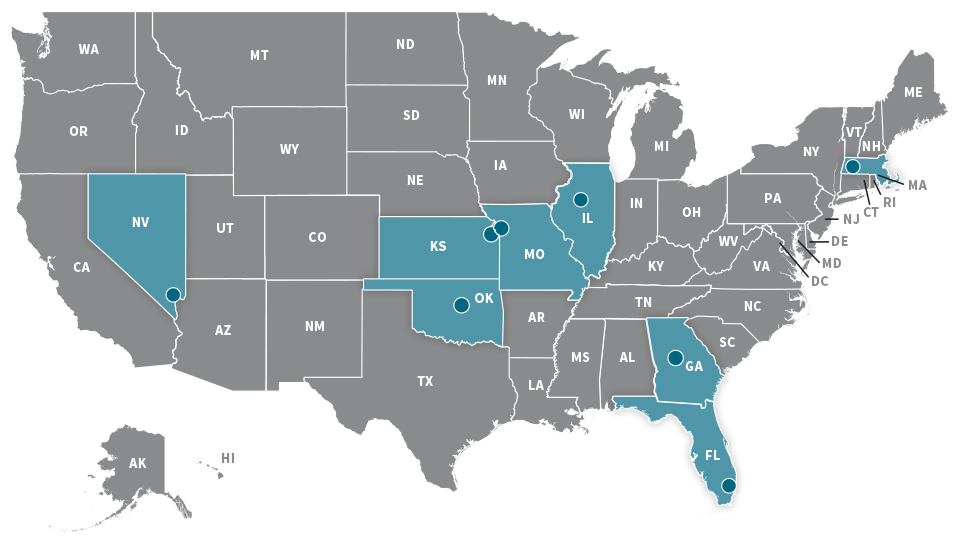
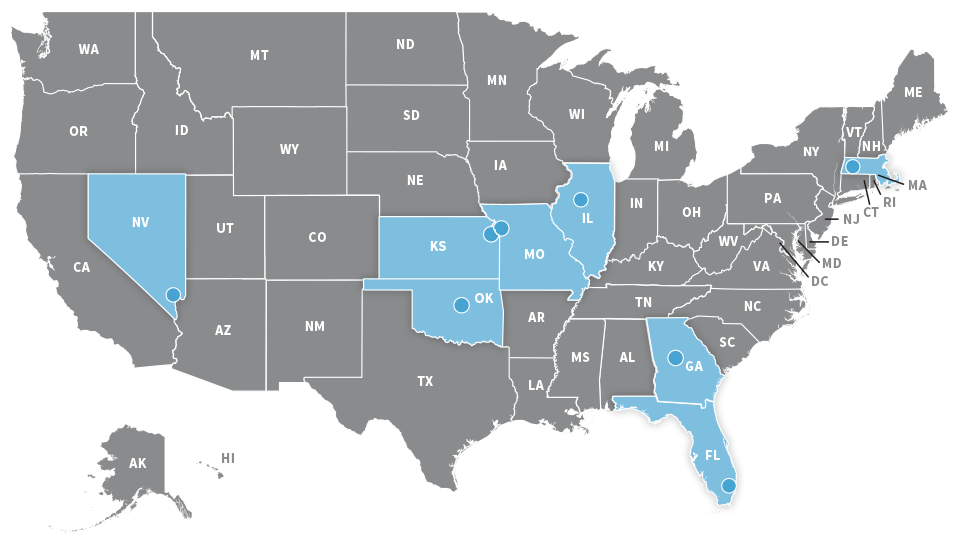
updates C1 map to correct colors and other css color stuffs

diff --git a/app/index.html b/app/index.html
@@ -5,25 +5,14 @@ title: TAC Site Visit Aggregate Report Update 2014
 
 <p class="home--intro-text"><b>New Intro TK</b> lorem ipsum dolor sit amet.</p>
 <div class="home--map-container">
-	<div class="home--map" id="map-base"><img src="/img/sbirt-map__base.png" alt="map of the United States of America"></div>
-	<div class="home--map" id="map-MG"><img src="/img/sbirt-map__MG.png" alt="map of the United States of America highlighting Medical Grantees"></div>
-	<div class="home--map" id="map-C4"><img src="/img/sbirt-map__C4.png" alt="map of the United States of America highlighting Cohort IV Grantees"></div>
-	<div class="home--map" id="map-C5"><img src="/img/sbirt-map__C5.png" alt="map of the United States of America highlighting Cohort V Grantees"></div>
-	<div class="home--map" id="map-TG"><img src="/img/sbirt-map__TG.png" alt="map of the United States of America highlighting Training Grantees"></div>
-	<div class="home--map" id="map-C123">
-		<img src="/img/sbirt-map__C123.png" alt="map of the United States of America highlighting Cohorts I–III Grantees">
-		<ul class="home--map-C123--key">
-			<li class="home--map-C1">Cohort I</li>
-			<li class="home--map-C2">Cohort II</li>
-			<li class="home--map-C3">Cohort III</li>
-		</ul>
-	</div>
+	<div class="home--map" id="map-base"><img src="/img/tac-map__base.png" alt="map of the United States of America"></div>
+	<div class="home--map" id="map-C1"><img src="/img/tac-map__C1.png" alt="map of the United States of America highlighting Medical Grantees"></div>
+	<div class="home--map" id="map-C2"><img src="/img/tac-map__C2.png" alt="map of the United States of America highlighting Cohort IV Grantees"></div>
+	<div class="home--map" id="map-C3"><img src="/img/tac-map__C3.png" alt="map of the United States of America highlighting Cohort V Grantees"></div>
 </div>
 	<p class="home--cohort-button-text"><b>Click on a Cohort below</b> for information about three TAC grantee programs for various health professionals working in a range of settings:</p>
 <div class="home--cohorts">
-	<div class="home--cohort-button home-cohort-MG" data-mapid="map-MG"><a href="/cohortI/index.html"><h4>Cohort I</h4><p>Text TK</p></a></div>
-	<div class="home--cohort-button home-cohort-C4" data-mapid="map-C4"><a href="/cohortII/index.html"><h4>Cohort II</h4><p>Text TK</p></a></div>
-	<div class="home--cohort-button home-cohort-C5" data-mapid="map-C5"><a href="/cohortIII/index.html"><h4>Cohort III</h4><p>Text TK</p></a></div>
-	<!--<div class="home--cohort-button home-cohort-TG" data-mapid="map-TG"><a href="/training/index.html"><h4>Medical Professional Training Grantees</h4><p>include 14 grantees funded in 2013 and expected to end in August 2016.</p></a></div>-->
-	<!--<div class="home--cohort-button home-cohort-C123" data-mapid="map-C123"><a href="#" id="home-cohort-C123-link"><h4>TAC Agreements, Cohorts I–III</h4><p>Text TK-lorem ipsum dolor sit amet.</p></a></div>-->
+	<div class="home--cohort-button home-cohort-C1" data-mapid="map-C1"><a href="/cohortI/index.html"><h4>Cohort I</h4><p>Text TK</p></a></div>
+	<div class="home--cohort-button home-cohort-C2" data-mapid="map-C2"><a href="/cohortII/index.html"><h4>Cohort II</h4><p>Text TK</p></a></div>
+	<div class="home--cohort-button home-cohort-C3" data-mapid="map-C3"><a href="/cohortIII/index.html"><h4>Cohort III</h4><p>Text TK</p></a></div>
 </div>

diff --git a/app/_scss/modules/_timeline.scss b/app/_scss/modules/_timeline.scss
@@ -1,17 +1,14 @@
 .timeline {
 	background-repeat: no-repeat repeat;
   	background-position: center;
-  	.C4 & {
+  	.C1 & {
[1 lines of base64/hex data omitted]
   	}
-  	.C5 & {
+  	.C2 & {
[1 lines of base64/hex data omitted]
   	}
-  	.MG & {
+  	.C3 & {
[1 lines of base64/hex data omitted]
-  	}
-  	.TG & {
[1 lines of base64/hex data omitted]
   	}
 	padding-left: 0;
 	text-align: center;
@@ -21,7 +18,7 @@
 	}
 	&--vline {
 		// width: 4px;
-		// background-color: $C4;
+		// background-color: $C1;
 		// height: 200%;
 		// position: absolute;
 		// left: 50%;
@@ -51,18 +48,16 @@
 		position: relative;
 		z-index:5;
 		margin-top:25px;
-		.MG & { background-color: $MG; }
-		.C4 & { background-color: $C4; }
-		.C5 & { background-color: $C5; }
-		.TG & { background-color: $TG; }
+		.C3 & { background-color: $C3; }
+		.C1 & { background-color: $C1; }
+		.C2 & { background-color: $C2; }
 	}
 	&--image {
 		@include border-radius(50%);
 		border: 1px solid gray;
-		.MG & { border-color: $MG; }
-		.C4 & { border-color: $C4; }
-		.C5 & { border-color: $C5; }
-		.TG & { border-color: $TG; }
+		.C3 & { border-color: $C3; }
+		.C1 & { border-color: $C1; }
+		.C2 & { border-color: $C2; }
 		position: relative;
 		z-index:5;
 		height: 115px;
@@ -92,10 +87,9 @@
 	}
 	&--grantee-info {
 		border-top: 1px dotted gray;
-		.MG & { border-color: $MG; }
-		.C4 & { border-color: $C4; }
-		.C5 & { border-color: $C5; }
-		.TG & { border-color: $TG; }
+		.C3 & { border-color: $C3; }
+		.C1 & { border-color: $C1; }
+		.C2 & { border-color: $C2; }
 
 	p {
 		width: 300px;

diff --git a/app/_scss/modules/_home.scss b/app/_scss/modules/_home.scss
@@ -61,69 +61,31 @@
 }
 .home--cohort-button {
 	float:left;
-	width: 25%; /* Olde */
-	width: 33.333%;
+	width: 33.3333%;
 	@include box-sizing(border-box);
 	a:link, a:visited {
 		color:#000;
 		border-top-width: 0.75em;
 		border-top-style: solid;
-		height: 12em;
+		height: 9em;
 		display: block;	
 		padding: 0.5em 0.75em;
-		margin-right: 1.25em; /* Olde */
-		margin-right: 1.875em;
+		margin-right: 1.25em;
 		margin-bottom: 1.25em;
 	}
 	a:hover {
 		color: #fff;
 	}
-	/*&:nth-child(4) a {
-		margin-right:0;
-	}*/
 	&:nth-child(3) a {
 		margin-right:0;
 	}
 	&.home-cohort-C1 {
 		@include cohort-block($C1);
-
-	} /* Added Section */
-
+	}
 	&.home-cohort-C2 {
 		@include cohort-block($C2);
-
-	} /* Added Section */
-
+	}
 	&.home-cohort-C3 {
 		@include cohort-block($C3);
-
-	} /* Added Section */
-
-	&.home-cohort-MG {
-		@include cohort-block($MG);
-
-	}
-	&.home-cohort-TG {
-		@include cohort-block($TG);
-
-	}
-	&.home-cohort-C123 {
-		@include cohort-block($C123);
-		width: 100%;
-		a:link, a:visited {
-		height: 6em;
-		background-color: tint($gray,82%);
-		margin-left:0;
-		margin-right:0;
-		}
-		a:hover {
-			background-color: tint($C123,12%);
-		}
-	}
-	&.home-cohort-C4 {
-		@include cohort-block($C4);
-	}
-	&.home-cohort-C5 {
-		@include cohort-block($C5);
 	}
 }

diff --git a/app/_scss/modules/_tabs.scss b/app/_scss/modules/_tabs.scss
@@ -20,22 +20,19 @@
             &.ui-state-active {
                 z-index: 10;
                 color: #fff;
-                .C4 & {
-                    background-color: $C4;
-                    @include css-arrow(bottom, 8px, $C4, 0, transparent, none);
+                .C1 & {
+                    background-color: $C1;
+                    @include css-arrow(bottom, 8px, $C1, 0, transparent, none);
                 }
-                .C5 & {
-                    background-color: $C5;
-                    @include css-arrow(bottom, 8px, $C5, 0, transparent, none);
+                .C2 & {
+                    background-color: $C2;
+                    @include css-arrow(bottom, 8px, $C2, 0, transparent, none);
                 }
-                .MG & {
-                    background-color: $MG;
-                    @include css-arrow(bottom, 8px, $MG, 0, transparent, none);
+                .C3 & {
+                    background-color: $C3;
+                    @include css-arrow(bottom, 8px, $C3, 0, transparent, none);
                 }
-                .TG & {
-                    background-color: $TG;
-                    @include css-arrow(bottom, 8px, $TG, 0, transparent, none);
-                }
+
             }
         }
     }

diff --git a/app/_scss/layout/_header.scss b/app/_scss/layout/_header.scss
@@ -3,34 +3,35 @@
    ======================= */
 @import "compass/css3";
 header {
-	background-image:url(/img/sbirt_header_bg_1x.png);
+	// background-image:url(/img/sbirt_header_bg_1x.png);
 	// background-size: 2px 2px;
+	background-color:$blue;
+	@include box-shadow (rgba(0,0,0,0.4) 0px 0px 103px -16px inset);
 }
 .header {
 
 	&--logo {
-		background-image: url(/img/sbirt_logo.png);
-		background-size: 141px 100px;
-		height: 112px;
-		width: 145px;
-		margin: 10px 20px 0 0;
-		background-repeat: no-repeat;
-		text-indent:-99999px;
+		margin: 10px 15px 15px 0;
+		// background-repeat: no-repeat;
+		// text-indent:-99999px;
 		float: left;
+		color: white;
+		font-size: 5.5em;
+		line-height: 1em;
 		}
 	&--site-title {
 		color: white;
-		font-size: 2.3em;
-		padding-top: 0.65em;
+		font-size: 1.9em;
+		padding-top: 0.73em;
 		line-height: 1.2em;
 	}
 	&--site-subtitle {
 		color: white;
-		font-size: 1.4em;
+		font-size: 1.5em;
 		overflow: auto;
 		line-height: 1.4em;
 		margin-top: .15em;
-
+		font-weight: 300;
 	}
 	}
 .l-header {

diff --git a/app/_scss/layout/_nav.scss b/app/_scss/layout/_nav.scss
@@ -32,10 +32,7 @@
 	}
 }
 }
-.nav-cohort-C4 {
-	@extend .nav-cohort;
-	background-color: $C4;
-}
+
 .nav-cohort-C1 {
 	@extend .nav-cohort;
 	background-color: $C1;
@@ -46,19 +43,7 @@
 }
 .nav-cohort-C3 {
 	@extend .nav-cohort;
-	background-color: $C2;
-}
-.nav-cohort-C5 {
-	@extend .nav-cohort;
-	background-color: $C5;
-}
-.nav-cohort-MG {
-	@extend .nav-cohort;
-	background-color: $MG;
-}
-.nav-cohort-TG {
-	@extend .nav-cohort;
-	background-color: $TG;
+	background-color: $C3;
 }
 .nav-cohort-inner {
 	@extend %page-margins;
@@ -194,11 +179,9 @@
 
 .active {
 	background-color: $gray;
-	&-C4 {background-color: $C4;}
-	&-C5 {background-color: $C5;}
-	&-C123 {background-color: $C123;}
-	&-MG {background-color: $MG;}
-	&-TG {background-color: $TG;}
+	&-C1 {background-color: $C1;}
+	&-C2 {background-color: $C2;}
+	&-C3 {background-color: $C3;}
 }
 .nav-grantee-location {
 	font-size:0.8em;

diff --git a/app/_scss/modules/_accordion.scss b/app/_scss/modules/_accordion.scss
@@ -47,17 +47,14 @@
     // @include background-image(linear-gradient(top, rgba(0, 182, 238, 1) 0%, rgba(0, 158, 206, 1) 100%));
     @include box-shadow(rgba(black, 0.05) 0 0 20px 0);
     color: #fff;
-                .C4 & {
-                    background-color: $C4;
+                .C1 & {
+                    background-color: $C1;
                 }
-                .C5 & {
-                    background-color: $C5;
+                .C2 & {
+                    background-color: $C2;
                 }
-                .MG & {
-                    background-color: $MG;
-                }
-                .TG & {
-                    background-color: $TG;
+                .C3 & {
+                    background-color: $C3;
                 }
     &:hover {
         background-color: $med-gray;

diff --git a/app/_scss/tools/_site-settings.scss b/app/_scss/tools/_site-settings.scss
@@ -25,14 +25,9 @@ $green: #a2cb53;
 $color1: $blue;
 $color2: $orange;
 
-$C1: #99c2cc; // Cohort I
-$C2: #428ea1; // Cohort II
-$C3: $blue;   // Cohort III
-$C4: $orange; // Cohort IV
-$C5: #4b831f; // Cohort V
-$C123: $blue; // Cohorts I-III
-$MG: #46a3d2; // Medical Grantees
-$TG: #892829; // Training Grantees
+$C1: #46a3d2; // Cohort I
+$C2: #f89728; // Cohort II
+$C3: #a2cb53; // Cohort III
 
 // Text
 $color-text-base: #212121;

diff --git a/app/_includes/header.html b/app/_includes/header.html
@@ -1,6 +1,6 @@
 <div class="l-header"><a href="/index.html">
 	<div class="header--logo">TAC</div>
-	<div class="header--site-title">TAC Site Visit Aggregate Report Update, 2003–2014</div>
+	<div class="header--site-title">Site Visit Aggregate Report Update, 2003–2014</div>
 	<div class="header--site-subtitle">Copy TK Cohorts I–III</div>
 </a>
 </div>

diff --git a/app/_scss/base/_base.scss b/app/_scss/base/_base.scss
@@ -83,18 +83,6 @@ hr {
 .text-C3 {
     color: $C3;
 }
-.text-C4 {
-    color: $C4;
-}
-.text-C5 {
-    color: $C5;
-}
-.text-MG {
-    color: $MG;
-}
-.text-TG {
-    color: $TG;
-}
 .label {
     font-size: 0.85em;
     font-weight: 600;

diff --git a/app/_scss/modules/_cohort-landing.scss b/app/_scss/modules/_cohort-landing.scss
@@ -5,7 +5,7 @@
 	margin-bottom: 0.5em;
 	position: relative;
 	> * {
-		margin-bottom:0.15em;
+		margin-bottom:0.2em;
 	}
 	.cohort-date {
 		position: absolute;
